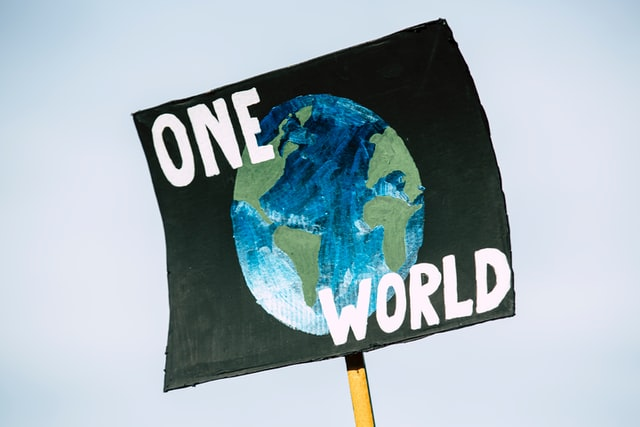
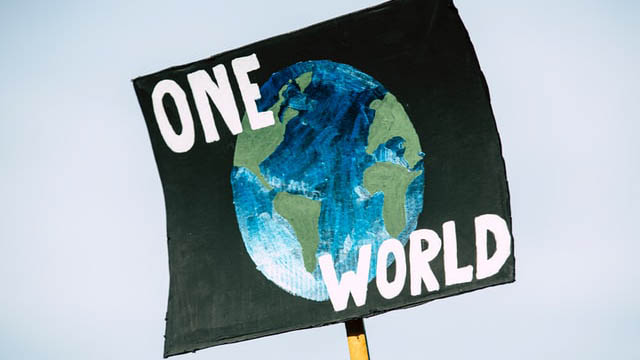
Delet min height setup on cards Modification of images cards ratio

Changed region(s): [[0.1875, 0.0, 0.8125, 1.0], [0.7812, 0.4278, 0.8125, 0.4583], [0.25, 0.6417, 0.2812, 0.6722]]

diff --git a/styles/sass/layout/_main.scss b/styles/sass/layout/_main.scss
@@ -134,7 +134,6 @@
         .card{
             width: 80%;
             margin: $offset;
-            min-height: 470px;
         }
 
         .helpus{
@@ -158,13 +157,4 @@
             }
         }
     }
-
-    // ---------------
-//MEDIA QUERIES - 1280px
-    @media screen and(min-width: 1280px) { 
-        .card{
-            min-height: 500px;
-        }
-    }
-    
 

diff --git a/styles/style.css b/styles/style.css
@@ -227,7 +227,6 @@ body {
   .card {
     width: 80%;
     margin: 30px;
-    min-height: 470px;
   }
   .helpus {
     font-size: 1.2rem;
@@ -247,11 +246,6 @@ body {
   }
   .helpus_img > img {
     width: 60%;
-  }
-}
-@media screen and (min-width: 1280px) {
-  .card {
-    min-height: 500px;
   }
 }
 nav {
